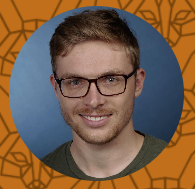
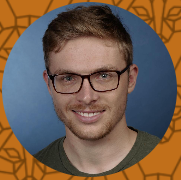
changed profile fotos, added Jora as a teammember + deleted debugging messages

diff --git a/frontend/app/about/about.html b/frontend/app/about/about.html
@@ -9,32 +9,43 @@
     <div class="developer-profiles">
         <!-- Daniel -->
         <div class="developer-card">
-            <img src="../0-assets/daniel.png" alt="Daniel's Photo" class="developer-image">
+            <img src="../0-assets/Daniel.png" alt="Daniel's Photo" class="developer-image">
             <div class="developer-name">Daniel</div>
             <div class="developer-links">
-                <a href="https://github.com/danielgithub" target="_blank">💻</i></a>
-                <a href="https://intra.42.fr/users/daniel" target="_blank">🎓</a>
+                <a href="https://github.com/techmuesli" target="_blank">💻</i></a>
+                <a href="https://profile.intra.42.fr/users/dbrandtn" target="_blank">🎓</a>
             </div>
         </div>
         
         <!-- Kolja -->
         <div class="developer-card">
-            <img src="../0-assets/kolja.png" alt="Kolja's Photo" class="developer-image">
+            <img src="../0-assets/Kolja.png" alt="Kolja's Photo" class="developer-image">
             <div class="developer-name">Kolja</div>
             <div class="developer-links">
-                <a href="https://github.com/koljagithub" target="_blank">💻</i></a>
-                <a href="https://intra.42.fr/users/kolja" target="_blank">🎓</a>
+                <a href="https://github.com/Apelidas" target="_blank">💻</i></a>
+                <a href="https://profile.intra.42.fr/users/kkleinsc" target="_blank">🎓</a>
             </div>
         </div>
 
         <!-- Yana -->
         <div class="developer-card">
-            <img src="../0-assets/yana.png" alt="Yana's Photo" class="developer-image">
+            <img src="../0-assets/Yana.png" alt="Yana's Photo" class="developer-image">
             <div class="developer-name">Yana</div>
             <div class="developer-links">
-                <a href="https://github.com/yanagithub" target="_blank">💻</i></a>
-                <a href="https://intra.42.fr/users/yana" target="_blank">🎓</a>
+                <a href="https://github.com/jaderiverspirit" target="_blank">💻</i></a>
+                <a href="https://profile.intra.42.fr/users/ydimitro" target="_blank">🎓</a>
             </div>
         </div>
+
+        <!-- Georg  -->
+		<div class="developer-card">
+			<img src="../0-assets/Georg.png" alt="Georg's Photo" class="developer-image">
+			<div class="developer-name">Georg</div>
+			<div class="developer-links">
+				<a href="https://github.com/Georg-Trishchynskyi" target="_blank">💻</i></a>
+				<a href="https://profile.intra.42.fr/users/gpinchuk" target="_blank">🎓</a>
+			</div>
+		</div>
+				
     </div>
 </div>

diff --git a/frontend/app/homepage/homepage.html b/frontend/app/homepage/homepage.html
@@ -1,6 +1,6 @@
 <div class="content">
     <div class="container text-center mt-4"></div>
-    <h1>Welcome to the final 42 Dungeon "Transcendence"!</h1>
+    <h1>Welcome to the final 42 project "Transcendence"!</h1>
     <p>
         Transcendence is the last project within the 42 core curriculum that challenges students to build a full-fledged
         application integrating front-end, back-end, and database systems without the usage of external frameworks or
@@ -9,8 +9,4 @@
 </div>
 <div class="container text-center mt-4">
     <img src="0-assets/just-passin-cat.gif" alt="Just a passing cat" class="img-fluid"></img>
-    <!-- Test - is the problem how we host? It, appears so.
-    <div class="tenor-gif-embed" data-postid="26258034" data-share-method="host" data-aspect-ratio="1" data-width="100%"><a href="https://tenor.com/view/meong-cat-iamout-gif-26258034">Meong Cat Sticker</a>from <a href="https://tenor.com/search/meong-stickers">Meong Stickers</a></div> <script type="text/javascript" async src="https://tenor.com/embed.js"></script>
-    <img src="https://imgs.search.brave.com/LeDanWIHWBgdoQfV2tB84d5JTBsmIoTR09ihoCav_Ic/rs:fit:500:0:0:0/g:ce/aHR0cHM6Ly9tZWRp/YS5pc3RvY2twaG90/by5jb20vaWQvNjI2/NDY0MTU4L3Bob3Rv/L2NhdC13aXRoLW9w/ZW4tbW91dGguanBn/P3M9NjEyeDYxMiZ3/PTAmaz0yMCZjPVFy/OURDVmt3S21fZHpm/amtlTjVmb0NCcDdj/M0VmQkZfaTJBMGV0/WWlKT0E9"></img>
-    -->
 </div>

diff --git a/frontend/app/index.html b/frontend/app/index.html
@@ -47,7 +47,6 @@
 
         <!-- About Section -->
         <div id="viewAbout">
-            <p>this is a about</p>
             <!--#include file="about/about.html" -->
         </div>
 
